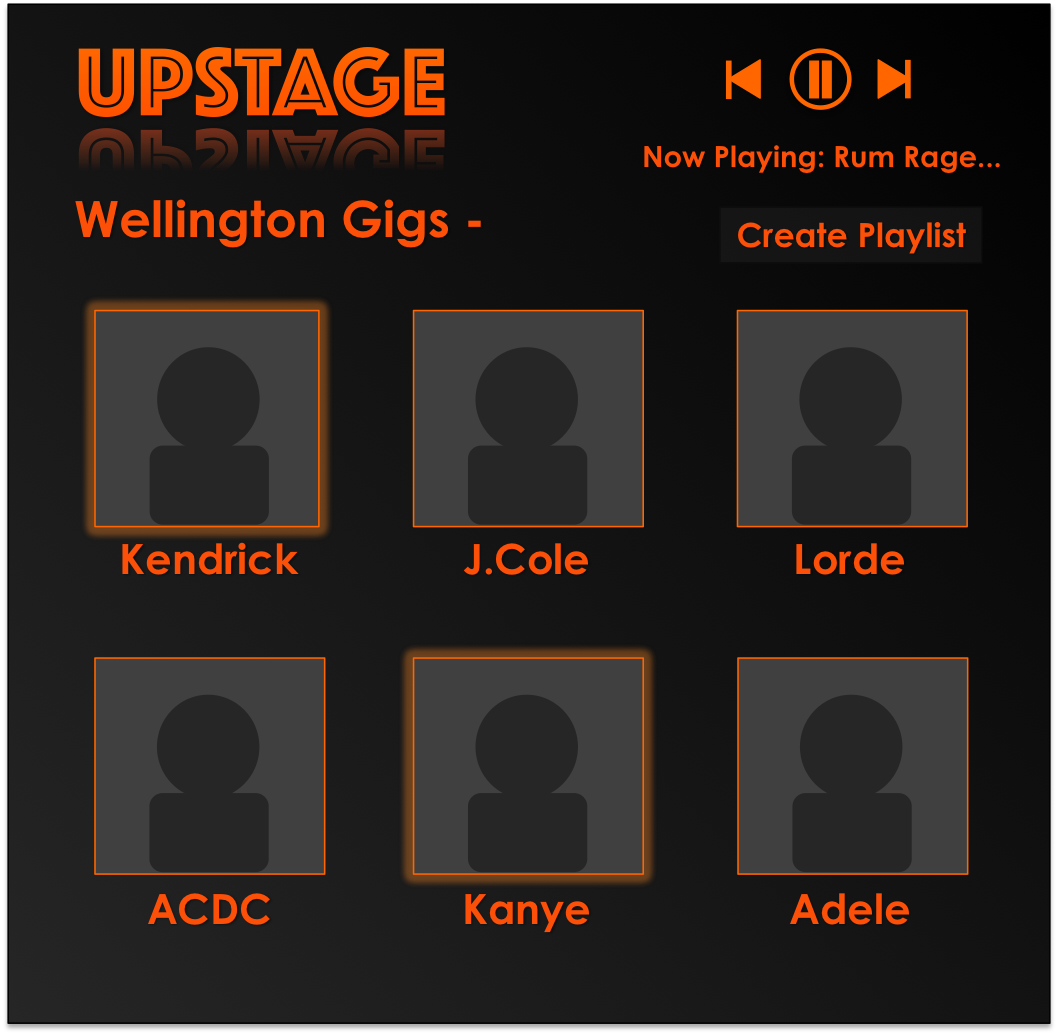
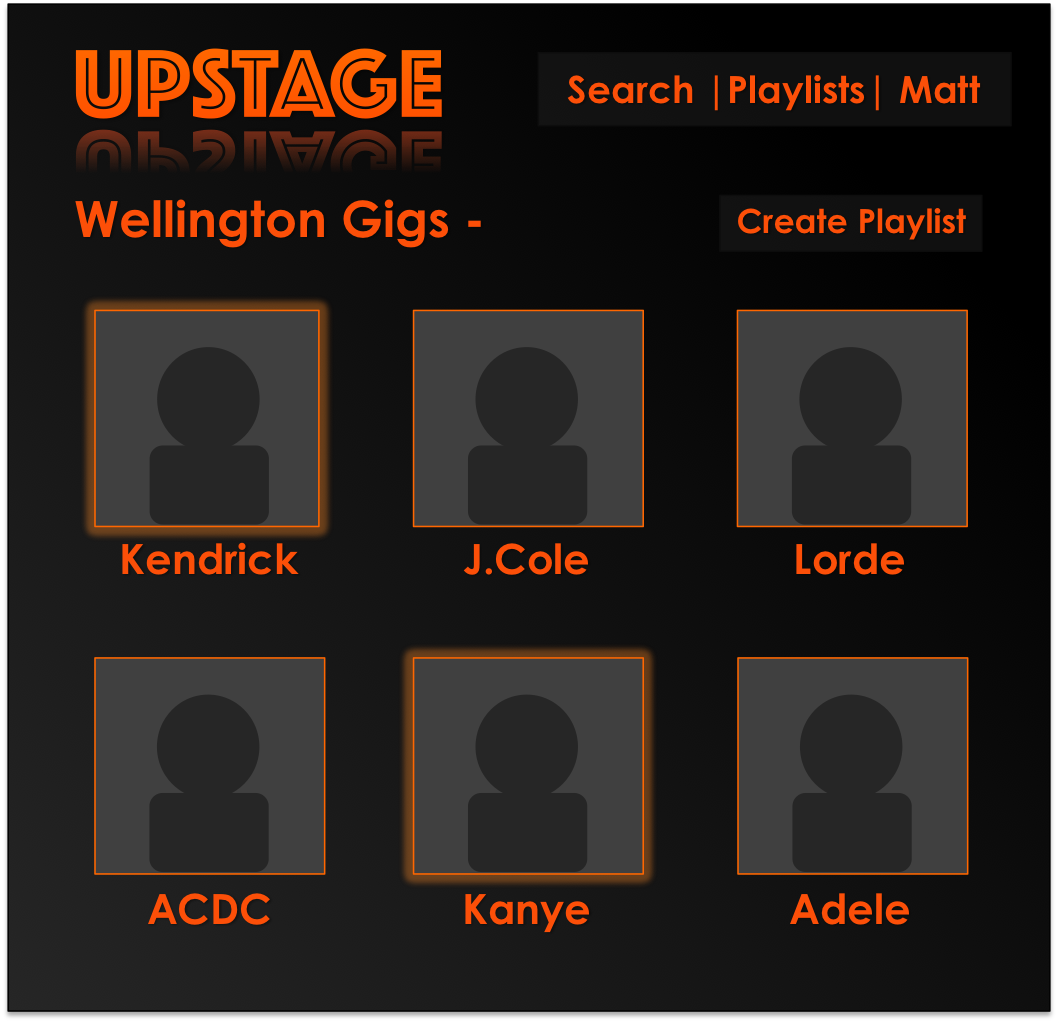
New wireframes and component list

diff --git a/README.md b/README.md
@@ -32,11 +32,20 @@
 * Write our own songkick?
 
 ### Git Flow :
-* Never push to Master, Alan sets his eyes on you. 
+* Never push to Master, Alan sets his eyes on you.
 * branches of Dev branch.
 * Once feature complete, create pull request to merge from feature branch to Dev branch.
-* Git master approves pull request and deal with git conflict before merging to Master 
+* Git master approves pull request and deal with git conflict before merging to Master
 * Git master informs everyone to pull down Dev branch once the merges has been dealt with.
+
+### First Component List :
+* Header
+* Home
+* Gig List
+* Search
+* Playlist
+* Login
+* Nav Bar
 
 ### Wireframes
 ![homepage](https://raw.githubusercontent.com/Giggify/Upstage/develop/DESIGN/HOMEPAGE.png)
